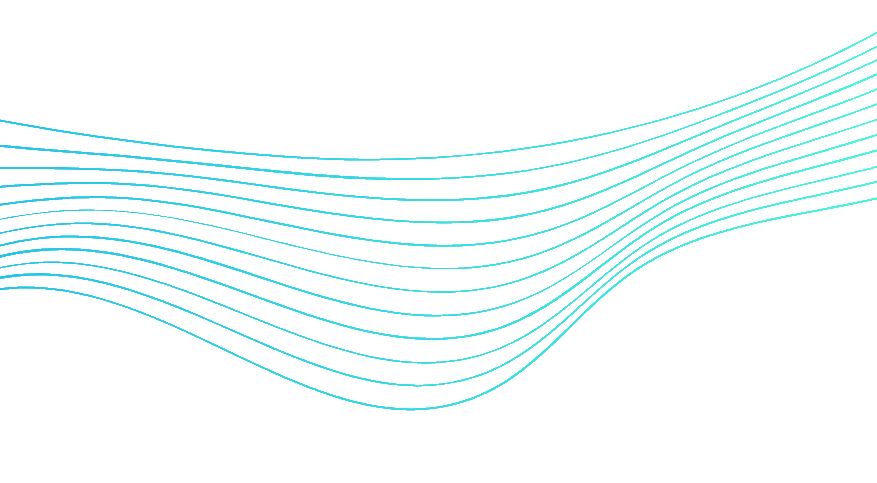
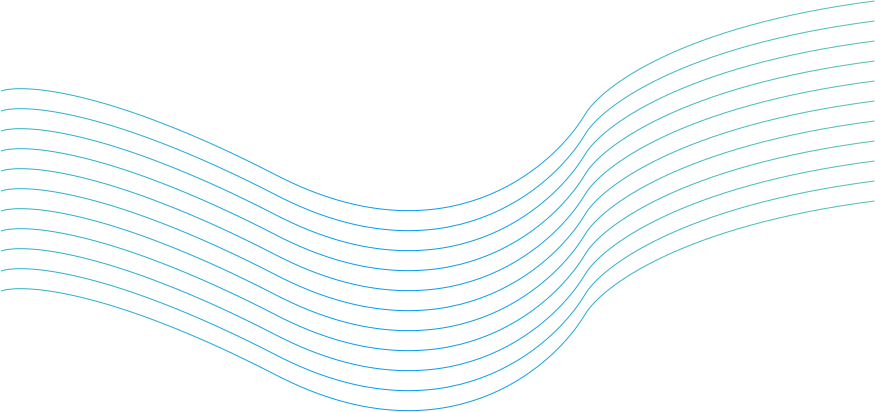
Portfolio amelioration

diff --git a/style.css b/style.css
@@ -141,15 +141,19 @@ a{
 #presentation_img{
   display: flex;
   width: 100%;
-  position: absolute;
-  inset: 0;
-  top: 10em;
+  position: relative;
+  top: -15em;
   z-index: -1;
+}
+
+#presentation{
+  height: 20em;
 }
 
 /* Moi */
 #moi {
   margin-top: 35em;
+  margin-left: -5em;
 }
 
 #moi > h1{
@@ -180,14 +184,14 @@ a{
   height: 530px;
   position: absolute;
   right: 5em;
-  top: 55em;
+  top: 70em;
   z-index: -1;
 }
 
 #img_futurDev {
   position: absolute;
   right: 0em;
-  top: 41em;
+  top: 65em;
   z-index: -10;
 }
 

diff --git a/index.html b/index.html
@@ -32,7 +32,7 @@
         <section id="presentation">
             <p id="mon_nom"></p>
             <p>Mon portfolio</p>
-            <img src="images/vague2.png" alt="Vague_deco" id="presentation_img">
+            <img src="images/vague.png" alt="Vague_deco" id="presentation_img">
         </section>
 
         <section id="moi">
